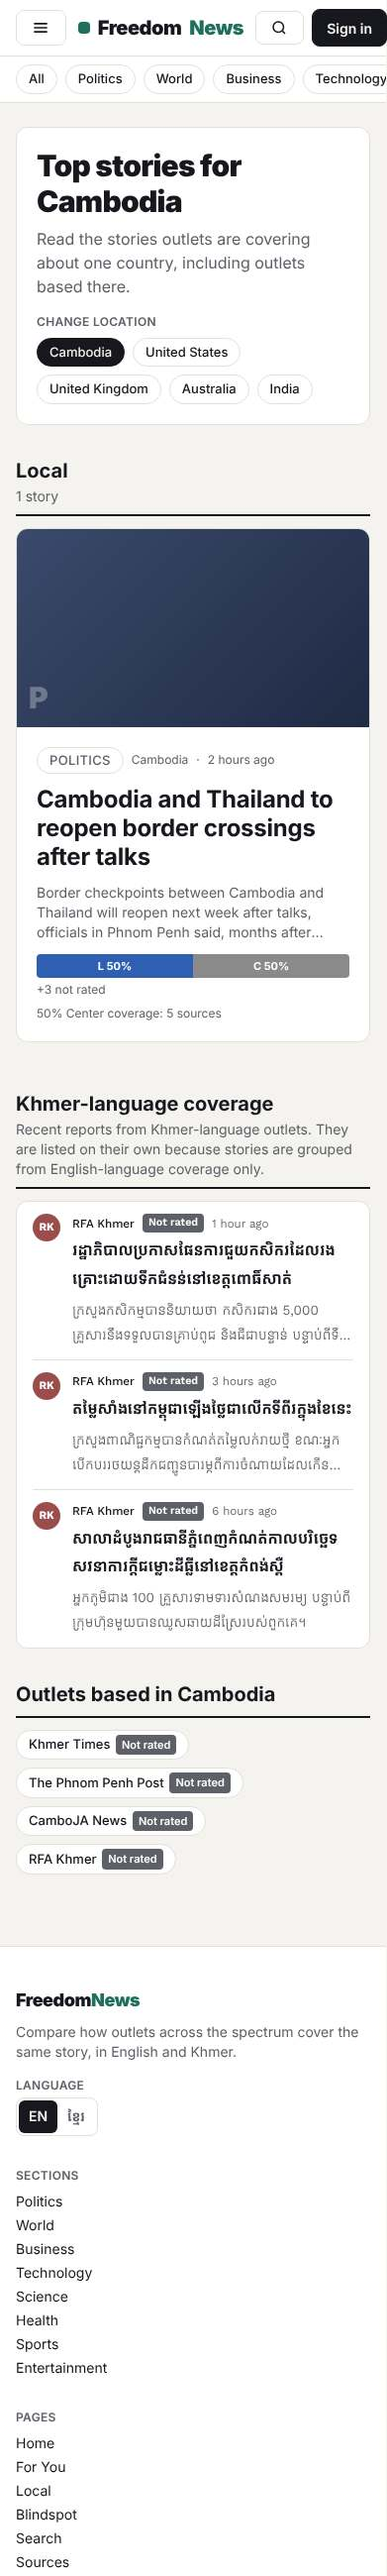
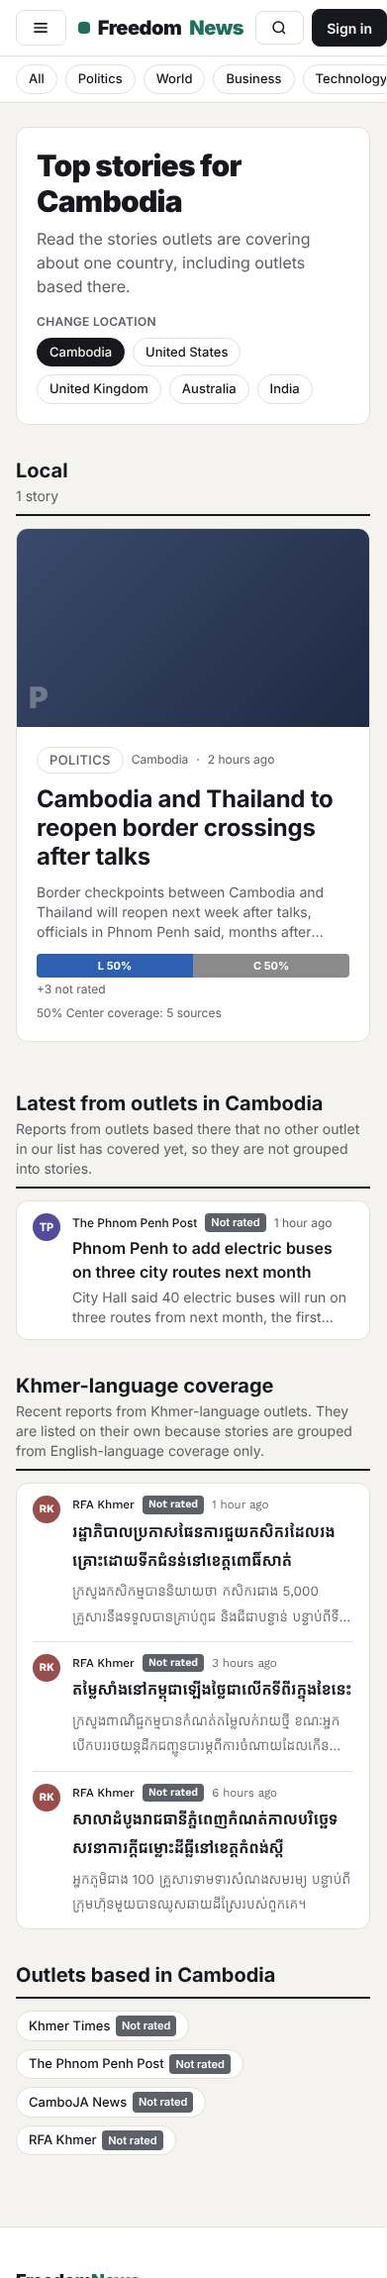
Show local outlets' own reports on the Local page
A story needs two outlets, and Cambodian outlets usually cover an event
alone, so after the first live refresh the Local page for Cambodia had
articles in the database but no stories to show. The snapshot now keeps the
latest English-language articles from each country's own feeds
(feed.localArticles) and the Local page lists the ones not already in a
local story under "Latest from outlets in …". Old snapshots default to none.

Also: the US place-name rule no longer matches "Trump" or "Washington",
which tagged world stories such as the Brazil election as local to the US;
the feed fetcher identifies itself with a crawler-style user agent and an
Accept header, since Khmer Times and a few others refused the old one; the
demo fixture gains a single-outlet Cambodian report so the new list is
visible in demo mode.

Claude-Session: https://claude.ai/code/session_01RktMGGf7ML4JFrm7iRjHG6

Changed region(s): [[0.0307, 0.0, 0.9514, 1.0], [0.798, 0.0, 1.0, 0.0617], [0.7366, 0.8335, 0.7673, 0.8643]]

diff --git a/src/lib/stories.ts b/src/lib/stories.ts
@@ -15,8 +15,9 @@ import {
   type StoredSummary,
 } from "./db";
 import { articleId, ingestAll } from "./ingest";
+import { getSource } from "./sources";
 import { articleLang } from "./khmer";
-import { detectRegions } from "./regions";
+import { detectRegions, LOCATIONS } from "./regions";
 import { extractiveSummary, hasKhmer, mapWithConcurrency, summarizeStory } from "./summarize";
 import type { Article, Category, Side, Story, StorySummary } from "./types";
 
@@ -26,6 +27,8 @@ const MAX_STORIES = Number(process.env.MAX_STORIES ?? 30);
 const MAX_FEED_STORIES = Number(process.env.MAX_FEED_STORIES ?? 80);
 /** Khmer-language articles are listed, not clustered; keep the latest few dozen. */
 const MAX_KHMER_ARTICLES = 60;
+/** Per country, the latest articles from outlets based there, for the Local page. */
+const MAX_LOCAL_ARTICLES = 40;
 /** Stop starting LLM calls after this long so a refresh fits the 300s route limit. */
 const LLM_TIME_BUDGET_MS = 200_000;
 /** A story needs at least this many outlets (rated or not) to make the feed. */
@@ -39,6 +42,12 @@ export interface StoryFeed {
   stories: Story[];
   /** Recent articles from Khmer-language outlets, shown on the Local page for Cambodia. */
   khmerArticles: Article[];
+  /**
+   * Per country code, the latest English-language articles from feeds dedicated
+   * to that country. Local outlets often cover an event alone, which never
+   * makes a story (a story needs two outlets), so the Local page lists these too.
+   */
+  localArticles: Record<string, Article[]>;
   generatedAt: string;
   articleCount: number;
   failedSources: string[];
@@ -206,6 +215,7 @@ export async function refreshFeed(): Promise<StoryFeed> {
   const feed: StoryFeed = {
     stories,
     khmerArticles,
+    localArticles: collectLocalArticles(articles),
     generatedAt: new Date().toISOString(),
     articleCount: articles.length,
     failedSources: loaded.failedSources,
@@ -215,14 +225,33 @@ export async function refreshFeed(): Promise<StoryFeed> {
   return feed;
 }
 
+/** The latest English-language articles from each country's own feeds. */
+export function collectLocalArticles(articles: Article[]): Record<string, Article[]> {
+  const byRegion: Record<string, Article[]> = {};
+  for (const region of LOCATIONS) byRegion[region] = [];
+  for (const article of articles) {
+    const region = getSource(article.sourceId)?.region;
+    if (region && region in byRegion && articleLang(article) === "en") byRegion[region].push(article);
+  }
+  for (const region of LOCATIONS) {
+    byRegion[region] = byRegion[region].sort((a, b) => b.publishedAt.localeCompare(a.publishedAt)).slice(0, MAX_LOCAL_ARTICLES);
+  }
+  return byRegion;
+}
+
 type StoredStory = Omit<Story, "category" | "regions" | "keywords"> & Partial<Pick<Story, "category" | "regions" | "keywords">>;
-type StoredFeed = Omit<StoryFeed, "stories" | "khmerArticles"> & { stories: StoredStory[]; khmerArticles?: Article[] };
+type StoredFeed = Omit<StoryFeed, "stories" | "khmerArticles" | "localArticles"> & {
+  stories: StoredStory[];
+  khmerArticles?: Article[];
+  localArticles?: Record<string, Article[]>;
+};
 
 /** Fills in fields that snapshots written by older versions lack. */
 export function normalizeFeed(feed: StoredFeed): StoryFeed {
   return {
     ...feed,
     khmerArticles: feed.khmerArticles ?? [],
+    localArticles: feed.localArticles ?? {},
     stories: feed.stories.map((s) => ({
       ...s,
       coverage: { ...s.coverage, unrated: s.coverage.unrated ?? 0 },
@@ -270,6 +299,12 @@ export function blindspotStories(feed: StoryFeed, side?: Side): Story[] {
 
 export function localStories(feed: StoryFeed, country: string): Story[] {
   return feed.stories.filter((s) => s.regions.includes(country));
+}
+
+/** Articles from a country's own outlets that are not already in one of its stories. */
+export function localArticles(feed: StoryFeed, country: string): Article[] {
+  const shown = new Set(localStories(feed, country).flatMap((s) => s.articles.map((a) => a.id)));
+  return (feed.localArticles[country] ?? []).filter((a) => !shown.has(a.id));
 }
 
 /** Other stories in the same section or sharing distinctive terms. */

diff --git a/src/lib/__tests__/features.test.ts b/src/lib/__tests__/features.test.ts
@@ -8,7 +8,7 @@ import { hasPrefs, parsePrefs, personalize, serializePrefs } from "../prefs";
 import { detectRegions } from "../regions";
 import { queryTerms, searchFeed } from "../search";
 import { OUTLETS, SOURCES, getSource, outletOf, sideOf } from "../sources";
-import { buildStories, normalizeFeed, type StoryFeed } from "../stories";
+import { buildStories, collectLocalArticles, localArticles, normalizeFeed, type StoryFeed } from "../stories";
 import { extractiveSummary, hasKhmer } from "../summarize";
 import { localizedSummary } from "../text";
 import type { Article, Story, StorySummary } from "../types";
@@ -67,9 +67,10 @@ function story(over: Partial<Story> = {}): Story {
   };
 }
 
-const feedOf = (stories: Story[], khmerArticles: Article[] = []): StoryFeed => ({
+const feedOf = (stories: Story[], khmerArticles: Article[] = [], local: Record<string, Article[]> = {}): StoryFeed => ({
   stories,
   khmerArticles,
+  localArticles: local,
   generatedAt: new Date(now).toISOString(),
   articleCount: stories.reduce((n, s) => n + s.articles.length, 0),
   failedSources: [],
@@ -170,6 +171,34 @@ describe("regions", () => {
     ).toEqual([]);
     expect(detectRegions([article("npr-us", "Senate passes bill"), article("bbc-uk", "Commons debates bill")])).toEqual(["US", "GB"]);
   });
+
+  it("does not call a world story local to the US just because Trump is quoted", () => {
+    expect(detectRegions([article("bbc", "Lula wins Brazil runoff; Trump calls vote rigged"), article("cnn", "Trump says Brazil vote was rigged")])).toEqual([]);
+  });
+});
+
+describe("local articles", () => {
+  it("keeps the latest English articles from each country's own feeds", () => {
+    const local = collectLocalArticles([
+      article("phnompenhpost", "Ministry opens bridge", "", 10),
+      article("camboja", "Union protests factory closure", "", 5),
+      article("rfakhmer", "ព័ត៌មានជាភាសាខ្មែរ", "", 1),
+      article("bbc-uk", "Rail strike announced", "", 2),
+      article("bbc", "World news", "", 0),
+    ]);
+    expect(local.KH.map((a) => a.sourceId)).toEqual(["camboja", "phnompenhpost"]);
+    expect(local.GB.map((a) => a.sourceId)).toEqual(["bbc-uk"]);
+    expect(local.US).toEqual([]);
+  });
+
+  it("hides articles that already appear in a local story", () => {
+    const inStory = article("phnompenhpost", "Border crossings reopen");
+    const alone = article("camboja", "Union protests factory closure");
+    const s = story({ id: "border", regions: ["KH"], articles: [inStory, article("bbc", "Cambodia border crossings reopen")] });
+    const feed = feedOf([s], [], { KH: [inStory, alone] });
+    expect(localArticles(feed, "KH")).toEqual([alone]);
+    expect(localArticles(feed, "US")).toEqual([]);
+  });
 });
 
 describe("khmer", () => {
@@ -244,6 +273,7 @@ describe("normalizeFeed", () => {
     };
     const feed = normalizeFeed(old);
     expect(feed.khmerArticles).toEqual([]);
+    expect(feed.localArticles).toEqual({});
     expect(feed.stories[0]).toMatchObject({ category: "world", regions: ["KH"], keywords: [], coverage: { unrated: 0 } });
     // A stored category wins over the classifier.
     const withCategory = normalizeFeed({ ...old, stories: [{ ...old.stories[0], summary: { ...old.stories[0].summary, category: "health" as const } }] });

diff --git a/src/app/[locale]/local/page.tsx b/src/app/[locale]/local/page.tsx
@@ -8,7 +8,7 @@ import { BiasLabel } from "@/components/bits";
 import { readLocation } from "@/lib/request-context";
 import { pageMetadata } from "@/lib/seo";
 import { OUTLETS } from "@/lib/sources";
-import { getStoryFeed, localStories } from "@/lib/stories";
+import { getStoryFeed, localArticles, localStories } from "@/lib/stories";
 
 export const dynamic = "force-dynamic";
 
@@ -25,6 +25,7 @@ export default async function LocalPage({ params }: { params: Promise<{ locale: 
   const { location, detected } = await readLocation();
   const feed = await getStoryFeed();
   const stories = location ? localStories(feed, location) : [];
+  const latest = location ? localArticles(feed, location) : [];
   const khmer = location === "KH" ? feed.khmerArticles : [];
   const outletsHere = location ? OUTLETS.filter((o) => o.country === location) : [];
   const name = location ? t(`locations.${location}`) : "";
@@ -48,7 +49,7 @@ export default async function LocalPage({ params }: { params: Promise<{ locale: 
           {!lead ? (
             <div className="card p-8 text-center">
               <p className="font-semibold">{t("local.empty", { location: name })}</p>
-              <p className="mt-2 text-sm text-muted">{t("local.emptyText")}</p>
+              {latest.length === 0 && khmer.length === 0 && <p className="mt-2 text-sm text-muted">{t("local.emptyText")}</p>}
             </div>
           ) : (
             <div className="space-y-4">
@@ -60,6 +61,17 @@ export default async function LocalPage({ params }: { params: Promise<{ locale: 
               </div>
             </div>
           )}
+        </section>
+      )}
+
+      {location && latest.length > 0 && (
+        <section>
+          <SectionHeading title={t("local.latestFromOutlets", { location: name })}>{t("local.latestFromOutletsText")}</SectionHeading>
+          <ul className="card px-4">
+            {latest.map((article) => (
+              <ArticleRow key={article.id} article={article} />
+            ))}
+          </ul>
         </section>
       )}
 

diff --git a/src/lib/regions.ts b/src/lib/regions.ts
@@ -12,7 +12,8 @@ export function isLocation(value: string | null | undefined): value is Location 
 /** Place names that mark a story as local to a country. Kept deliberately specific. */
 const PLACE_PATTERNS: Record<Location, RegExp> = {
   KH: /\b(cambodia|cambodian|cambodians|phnom penh|khmer|hun manet|hun sen|siem reap|angkor|sihanoukville|battambang|mekong delta)\b/i,
-  US: /\b(u\.s\.|united states|american|americans|washington|congress|white house|senate|pentagon|california|texas|florida|new york|chicago|los angeles)\b/i,
+  // No "Trump" or "Washington": they appear in world stories that are not about the US.
+  US: /\b(u\.s\.|united states|american|americans|congress|white house|senate|pentagon|california|texas|florida|new york|chicago|los angeles|supreme court|fbi|doj)\b/i,
   GB: /\b(uk|u\.k\.|britain|british|england|scotland|wales|northern ireland|london|downing street|westminster|nhs|starmer)\b/i,
   AU: /\b(australia|australian|australians|sydney|melbourne|canberra|queensland|brisbane|perth|albanese)\b/i,
   IN: /\b(india|indian|new delhi|delhi|mumbai|modi|bengaluru|bangalore|kolkata|chennai|hyderabad)\b/i,

diff --git a/src/lib/ingest.ts b/src/lib/ingest.ts
@@ -18,7 +18,11 @@ type FeedItem = {
 
 const parser = new Parser<Record<string, unknown>, FeedItem>({
   timeout: 10_000,
-  headers: { "User-Agent": "FreedomNews/0.1 (+https://github.com)" },
+  // Some publishers refuse unknown user agents; identify like a crawler with a contact URL.
+  headers: {
+    "User-Agent": "Mozilla/5.0 (compatible; FreedomNews/0.2; +https://github.com/kompheak7711/Freedom-News)",
+    Accept: "application/rss+xml, application/atom+xml, application/xml;q=0.9, text/xml;q=0.8, */*;q=0.5",
+  },
   customFields: { item: ["media:content", "media:thumbnail"] },
 });
 

diff --git a/src/lib/__tests__/pipeline.test.ts b/src/lib/__tests__/pipeline.test.ts
@@ -38,10 +38,10 @@ describe("tokenize", () => {
 });
 
 describe("clusterArticles", () => {
-  it("groups the demo fixture into its six English stories", () => {
+  it("groups the demo fixture into its seven English stories", () => {
     const clusters = clusterArticles(demo);
     const storyOf = (a: Article) => rows[Number(a.id)].story;
-    expect(clusters).toHaveLength(6);
+    expect(clusters).toHaveLength(7);
     for (const c of clusters) {
       expect(new Set(c.map(storyOf)).size).toBe(1);
     }

diff --git a/README.md b/README.md
@@ -21,7 +21,7 @@ visitors in Cambodia (Vercel's `x-vercel-ip-country` header) default to Khmer.
 | `/category/[slug]` | Stories in one section: politics, world, business, technology, science, health, sports, entertainment. |
 | `/blindspot` | Stories split into "Blindspot for the Left" and "Blindspot for the Right" (`?side=left\|right`). |
 | `/story/[id]` | Summary with Left / Center / Right framing tabs, coverage details, bias distribution, the outlet list with ratings, similar topics. Factuality and ownership are marked "coming soon"; we do not invent ratings. |
-| `/local` | Stories local to a country (Cambodia, US, UK, Australia, India). For Cambodia it also lists recent Khmer-language reports. Location comes from the `fn_location` cookie, else the visitor's IP country. |
+| `/local` | Stories local to a country (Cambodia, US, UK, Australia, India), plus the latest reports from outlets based there that no other outlet has covered (a story needs two outlets). For Cambodia it also lists recent Khmer-language reports. Location comes from the `fn_location` cookie, else the visitor's IP country. |
 | `/for-you` | Stories from followed topics and outlets. Follows live in the `fn_prefs` cookie on this device; accounts are a follow-up. |
 | `/sources` | Every outlet with its country, language, feed count and bias rating. |
 | `/search` | Searches headlines, summaries (English and Khmer), outlet names and, with a database, every stored article. |
@@ -80,7 +80,7 @@ npm test                     # add TEST_DATABASE_URL=postgres://... to also run 
 ```
 
 Demo mode uses `fixtures/demo-articles.json` (six English stories, one of them Cambodian,
-plus three Khmer-language reports) and `fixtures/demo-khmer-summaries.json` for Khmer text
+a single-outlet Cambodian report, plus three Khmer-language reports) and `fixtures/demo-khmer-summaries.json` for Khmer text
 on three stories, so both the translated and the "not available yet" states can be seen
 at `/km`.
 
